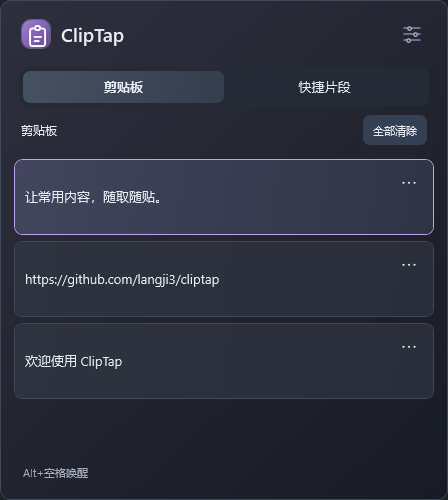
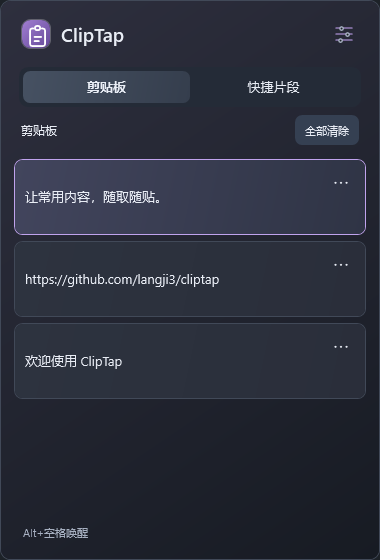
fix: 优化片段编辑页面并调整为瘦高面板

diff --git a/src/ClipTap/Views/SnippetView.xaml b/src/ClipTap/Views/SnippetView.xaml
@@ -1,30 +1,72 @@
 <UserControl x:Class="ClipTap.Views.SnippetView" xmlns="http://schemas.microsoft.com/winfx/2006/xaml/presentation"
              xmlns:x="http://schemas.microsoft.com/winfx/2006/xaml" xmlns:local="clr-namespace:ClipTap.Views">
-  <Grid Margin="22,4,22,18">
+  <UserControl.Resources>
+    <Style TargetType="TextBox" BasedOn="{StaticResource {x:Type TextBox}}">
+      <Setter Property="Background" Value="{DynamicResource CardGradient}" />
+      <Setter Property="BorderBrush" Value="{DynamicResource CardLine}" />
+      <Setter Property="Padding" Value="13,12" />
+      <Setter Property="Template"><Setter.Value><ControlTemplate TargetType="TextBox">
+        <Border x:Name="FieldBorder" CornerRadius="10" Background="{TemplateBinding Background}" BorderBrush="{TemplateBinding BorderBrush}" BorderThickness="1">
+          <ScrollViewer x:Name="PART_ContentHost" />
+        </Border>
+        <ControlTemplate.Triggers>
+          <Trigger Property="IsKeyboardFocusWithin" Value="True"><Setter TargetName="FieldBorder" Property="BorderBrush" Value="{DynamicResource Accent}" /></Trigger>
+        </ControlTemplate.Triggers>
+      </ControlTemplate></Setter.Value></Setter>
+    </Style>
+    <Style TargetType="PasswordBox" BasedOn="{StaticResource {x:Type PasswordBox}}">
+      <Setter Property="Padding" Value="13,12" />
+      <Setter Property="Template"><Setter.Value><ControlTemplate TargetType="PasswordBox">
+        <Border x:Name="FieldBorder" CornerRadius="10" Background="{DynamicResource CardGradient}" BorderBrush="{DynamicResource CardLine}" BorderThickness="1">
+          <ScrollViewer x:Name="PART_ContentHost" />
+        </Border>
+        <ControlTemplate.Triggers><Trigger Property="IsKeyboardFocusWithin" Value="True"><Setter TargetName="FieldBorder" Property="BorderBrush" Value="{DynamicResource Accent}" /></Trigger></ControlTemplate.Triggers>
+      </ControlTemplate></Setter.Value></Setter>
+    </Style>
+    <Style x:Key="OptionSwitch" TargetType="CheckBox" BasedOn="{StaticResource {x:Type CheckBox}}">
+      <Setter Property="Margin" Value="0" /><Setter Property="Cursor" Value="Hand" />
+      <Setter Property="Template"><Setter.Value><ControlTemplate TargetType="CheckBox">
+        <Grid Background="Transparent"><Grid.ColumnDefinitions><ColumnDefinition Width="*" /><ColumnDefinition Width="Auto" /></Grid.ColumnDefinitions>
+          <ContentPresenter VerticalAlignment="Center" Margin="0,0,10,0" />
+          <Border x:Name="Track" Grid.Column="1" Width="32" Height="18" CornerRadius="9" Background="{DynamicResource Chrome}" BorderBrush="{DynamicResource Line}" BorderThickness="1">
+            <Ellipse x:Name="Knob" Width="10" Height="10" Fill="{DynamicResource Muted}" HorizontalAlignment="Left" Margin="3,0" />
+          </Border>
+        </Grid>
+        <ControlTemplate.Triggers>
+          <Trigger Property="IsChecked" Value="True"><Setter TargetName="Track" Property="Background" Value="{DynamicResource ActionGradient}" /><Setter TargetName="Knob" Property="Fill" Value="{DynamicResource OnAccent}" /><Setter TargetName="Knob" Property="HorizontalAlignment" Value="Right" /></Trigger>
+          <Trigger Property="IsKeyboardFocused" Value="True"><Setter TargetName="Track" Property="BorderBrush" Value="{DynamicResource Accent}" /></Trigger>
+        </ControlTemplate.Triggers>
+      </ControlTemplate></Setter.Value></Setter>
+    </Style>
+  </UserControl.Resources>
+  <Grid Margin="20,6,20,18">
     <Grid.RowDefinitions><RowDefinition Height="*" /><RowDefinition Height="Auto" /><RowDefinition Height="Auto" /><RowDefinition Height="Auto" /></Grid.RowDefinitions>
     <ScrollViewer VerticalScrollBarVisibility="Auto" HorizontalScrollBarVisibility="Disabled">
       <StackPanel>
-        <TextBlock Text="标题" Foreground="{DynamicResource Muted}" Margin="0,0,0,8" />
-        <TextBox x:Name="TitleInput" MaxLength="80" AutomationProperties.Name="片段标题" />
-        <Grid Margin="0,20,0,8">
+        <TextBlock Text="名称" FontSize="12" Foreground="{DynamicResource Muted}" Margin="2,0,0,8" />
+        <TextBox x:Name="TitleInput" Height="48" MaxLength="80" FontSize="15" AutomationProperties.Name="片段标题" />
+        <Grid Margin="2,20,2,8">
           <TextBlock Text="内容" Foreground="{DynamicResource Muted}" VerticalAlignment="Center" />
-          <CheckBox x:Name="SensitiveInput" Content="敏感" HorizontalAlignment="Right" Margin="0" Checked="OnModeChanged" Unchecked="OnModeChanged" />
+          <CheckBox x:Name="RevealInput" Content="显示内容" HorizontalAlignment="Right" Margin="0" Visibility="Collapsed" Checked="OnRevealChanged" Unchecked="OnRevealChanged" />
         </Grid>
         <Grid>
-          <TextBox x:Name="ValueInput" Height="132" MaxLength="20000" AcceptsReturn="True" TextWrapping="Wrap" VerticalContentAlignment="Top" VerticalScrollBarVisibility="Auto" AutomationProperties.Name="片段内容" />
-          <PasswordBox x:Name="SecretInput" Height="132" MaxLength="20000" VerticalContentAlignment="Top" Visibility="Collapsed" AutomationProperties.Name="敏感片段内容" />
+          <TextBox x:Name="ValueInput" Height="196" MaxLength="20000" AcceptsReturn="True" TextWrapping="Wrap" VerticalContentAlignment="Top" VerticalScrollBarVisibility="Auto" AutomationProperties.Name="片段内容" />
+          <PasswordBox x:Name="SecretInput" Height="196" MaxLength="20000" VerticalContentAlignment="Top" Visibility="Collapsed" AutomationProperties.Name="敏感片段内容" />
         </Grid>
-        <Grid Margin="0,14,0,0">
-          <CheckBox x:Name="PinnedInput" Content="置顶" />
-          <CheckBox x:Name="RevealInput" Content="显示内容" HorizontalAlignment="Right" Visibility="Collapsed" Checked="OnRevealChanged" Unchecked="OnRevealChanged" />
-        </Grid>
+        <Border Margin="0,14,0,0" Padding="12,14" CornerRadius="10" Background="{DynamicResource CardGradient}" BorderBrush="{DynamicResource CardLine}" BorderThickness="1">
+          <Grid><Grid.ColumnDefinitions><ColumnDefinition Width="*" /><ColumnDefinition Width="25" /><ColumnDefinition Width="*" /></Grid.ColumnDefinitions>
+            <CheckBox x:Name="SensitiveInput" Style="{StaticResource OptionSwitch}" Content="敏感" Checked="OnModeChanged" Unchecked="OnModeChanged" />
+            <Border Grid.Column="1" Width="1" Background="{DynamicResource CardLine}" />
+            <CheckBox x:Name="PinnedInput" Grid.Column="2" Style="{StaticResource OptionSwitch}" Content="置顶" />
+          </Grid>
+        </Border>
       </StackPanel>
     </ScrollViewer>
     <TextBlock x:Name="ErrorLabel" Grid.Row="1" TextWrapping="Wrap" Foreground="{DynamicResource Danger}" Margin="0,8,0,4" />
     <local:InlineConfirmation x:Name="Confirmation" Grid.Row="2" />
     <Grid Grid.Row="3" Margin="0,8,0,0">
       <Button x:Name="DeleteButton" Content="删除" HorizontalAlignment="Left" Background="Transparent" Foreground="{DynamicResource Danger}" Padding="0,9" Click="OnDelete" />
-      <Button x:Name="SaveButton" Content="保存" HorizontalAlignment="Right" MinWidth="76" Background="{DynamicResource ActionGradient}" Foreground="{DynamicResource OnAccent}" Click="OnSave" />
+      <Button x:Name="SaveButton" Content="保存片段" HorizontalAlignment="Right" MinWidth="112" Padding="18,11" Background="{DynamicResource ActionGradient}" Foreground="{DynamicResource OnAccent}" Click="OnSave" />
     </Grid>
   </Grid>
 </UserControl>

diff --git a/src/ClipTap/MainWindow.xaml b/src/ClipTap/MainWindow.xaml
@@ -1,6 +1,6 @@
 <Window x:Class="ClipTap.MainWindow" xmlns="http://schemas.microsoft.com/winfx/2006/xaml/presentation"
         xmlns:x="http://schemas.microsoft.com/winfx/2006/xaml" xmlns:views="clr-namespace:ClipTap.Views"
-        Title="ClipTap" Width="448" Height="500" Style="{StaticResource {x:Type Window}}"
+        Title="ClipTap" Width="380" Height="560" Style="{StaticResource {x:Type Window}}"
         WindowStyle="None" ResizeMode="NoResize" ShowInTaskbar="False" Topmost="True"
         PreviewKeyDown="OnKeyDown" Deactivated="OnDeactivated" Closing="OnClosing"
         UseLayoutRounding="True" SnapsToDevicePixels="True">

diff --git a/docs/verification-20260916.md b/docs/verification-20260916.md
@@ -12,6 +12,8 @@
 
 ## 验证结果
 
+瘦高布局追加：面板由 448×500 调整为 380×560（DIP）；新建/编辑页改为圆角主题输入区、196px 内容编辑区、并排敏感/置顶开关与明确保存按钮。保留字段名、遮蔽逻辑、焦点、键盘及事务保存行为，截图检查明暗主题和缩窄后的设置页。
+
 色彩层次追加：背景、卡片、选中卡片、Tab 高光及主按钮使用分别定义的渐变；蓝/绿/紫共享中性文字层级。面板品牌图标使用渐变和白色线条，设置色板添加柔和高光；未改变 Tab 或卡片操作。沿用六组主题截图及既有测试检查，颜色资源集中维护，无新增依赖或持续渲染循环。
 
 图片清晰度追加：用户要求直接使用原图；取消 160×96 的解码缩小，保留系统图片的原始像素，卡片使用高质量插值显示。测试改为验证宽图、长图的原始尺寸及逐像素一致性、透明度。原始分辨率图片占用更多内存，仍不落盘；粘贴继续恢复 Windows 原记录。
